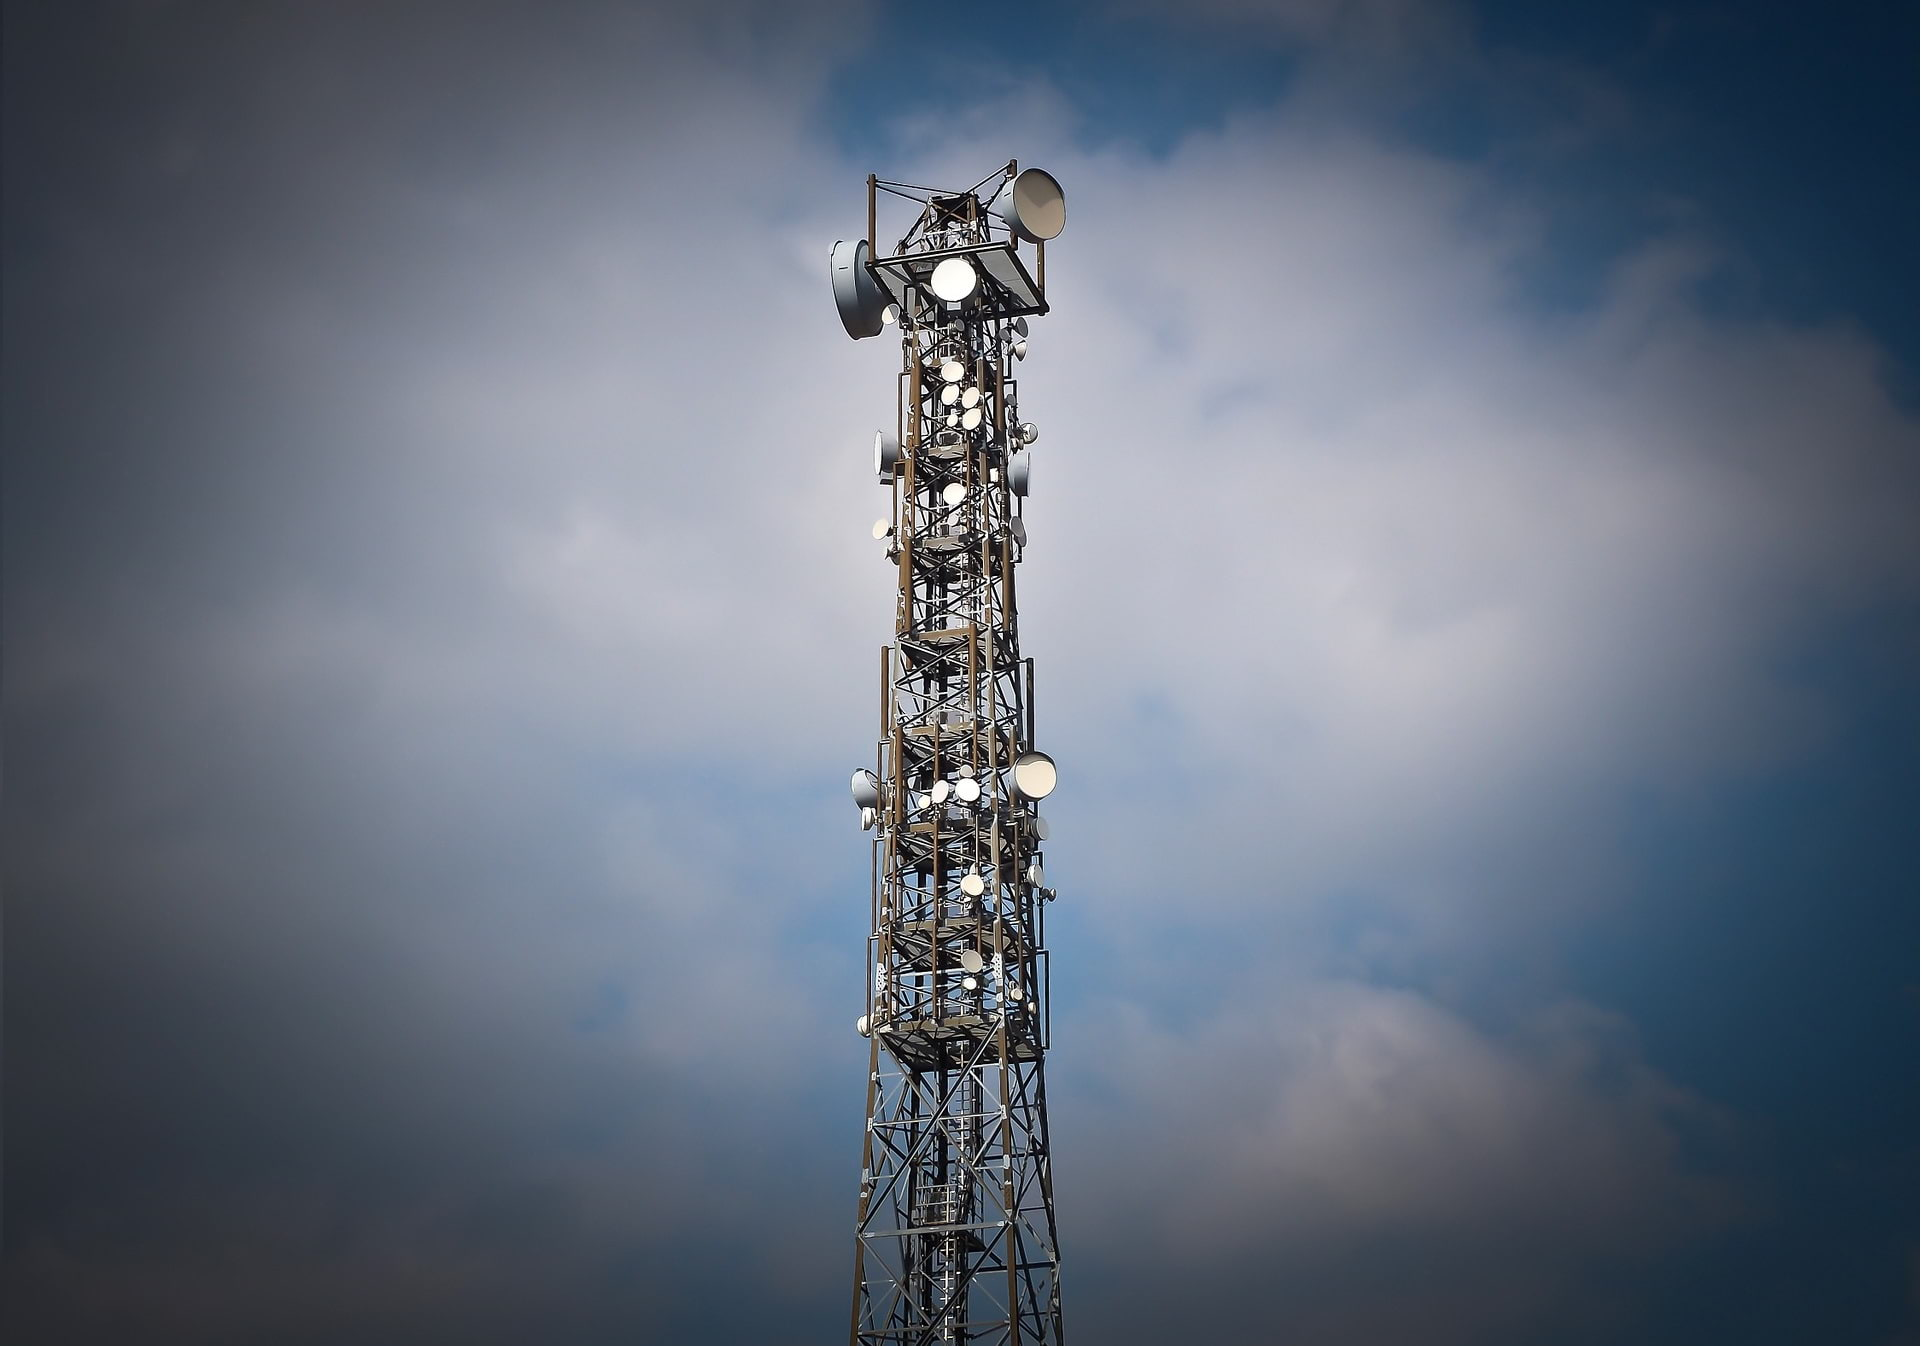
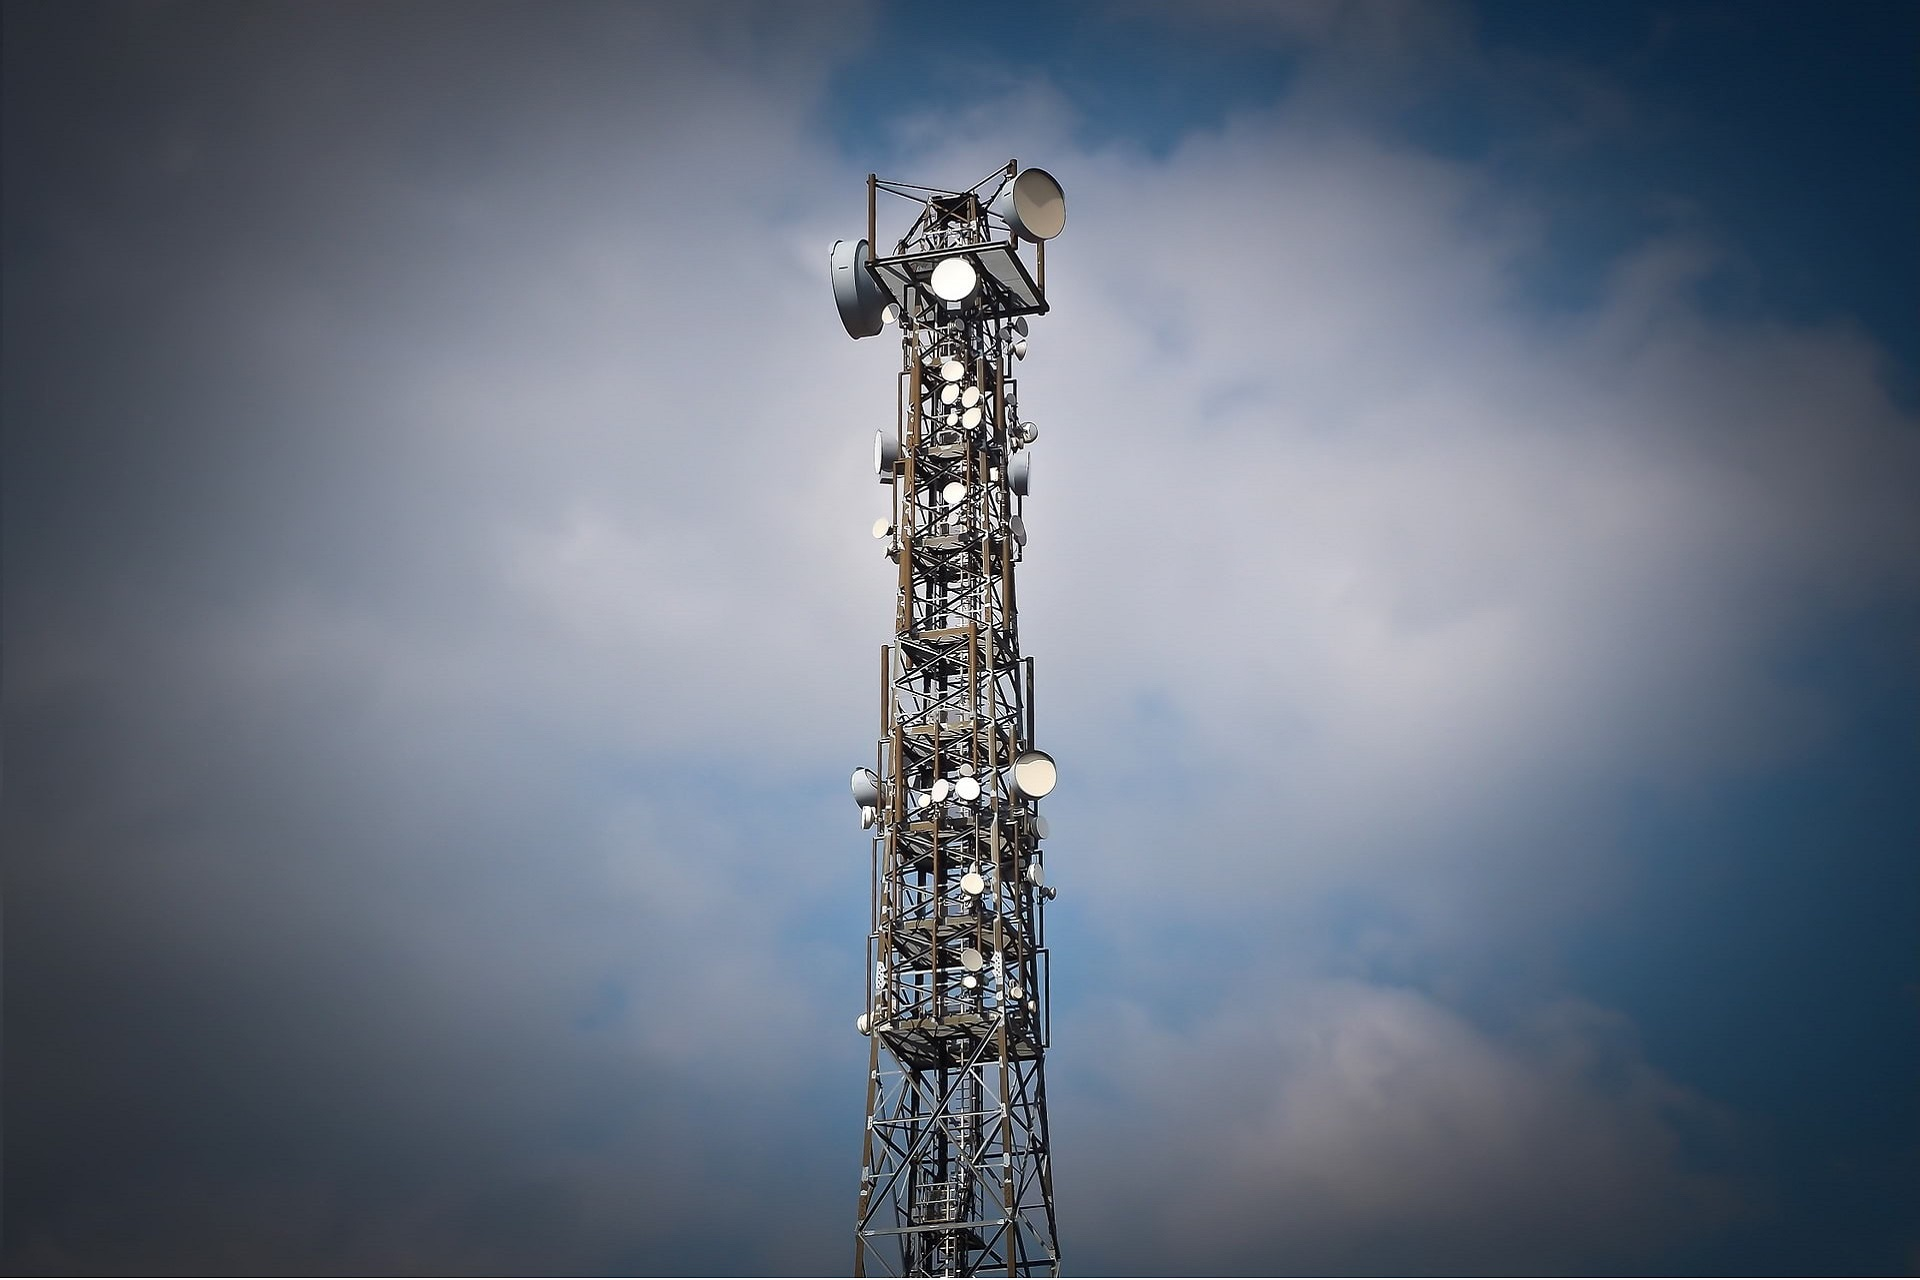
Services ovrvw imgs resized and formating updated

diff --git a/css/services.css b/css/services.css
@@ -56,6 +56,7 @@
   font-weight: 500;
   font-size: 1.3em;
   text-align: center;
+  width: 100%;
 }
 
 .service-ovr-text-group p {
@@ -158,7 +159,7 @@
   }
   .service-overview-pg {
     flex-wrap: wrap;
-    align-content: flex-end;
+    align-content: flex-start;
     justify-content: center;
   }
   .service-overview-pg a {
@@ -174,7 +175,6 @@
   }
   .service-ovr-text-group a {
     width: 90%;
-    padding: 0;
-    justify-self: end;
+    padding: 10px 0 0 0;
   }
 }
